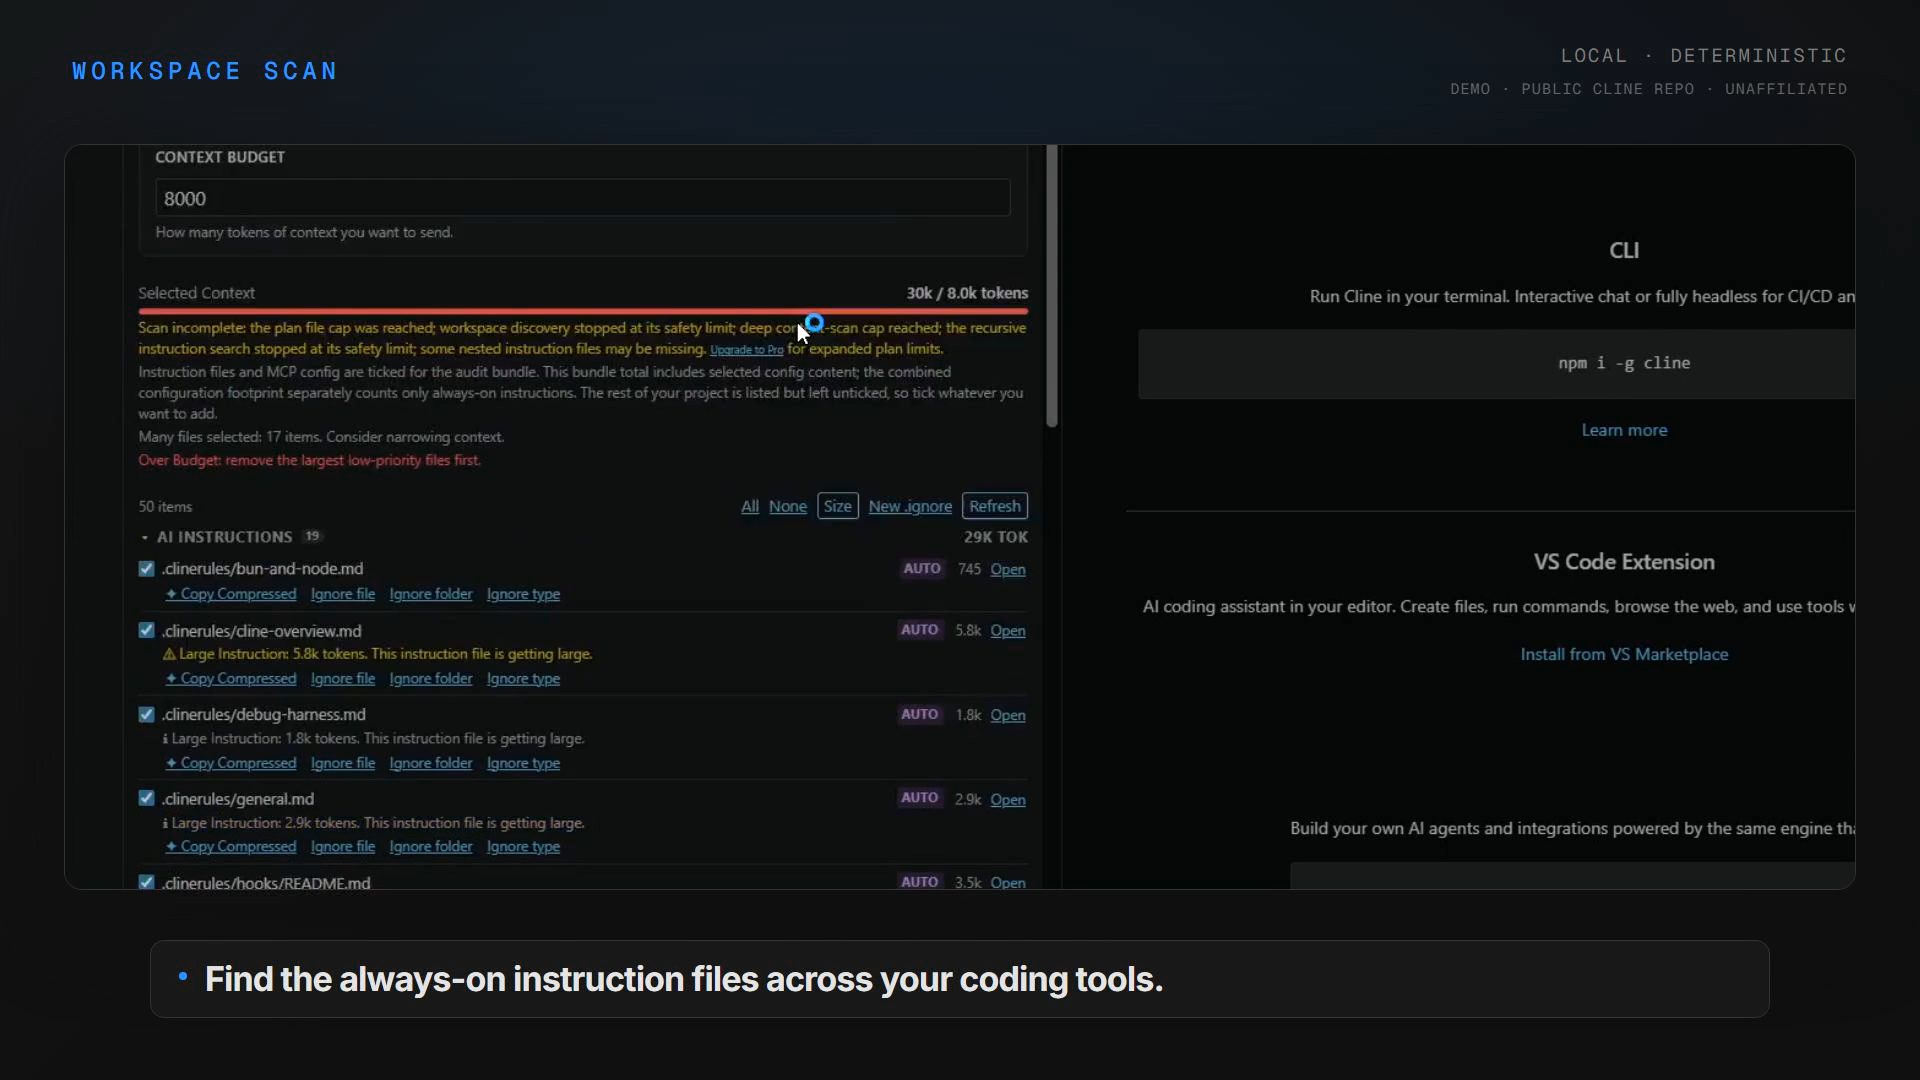
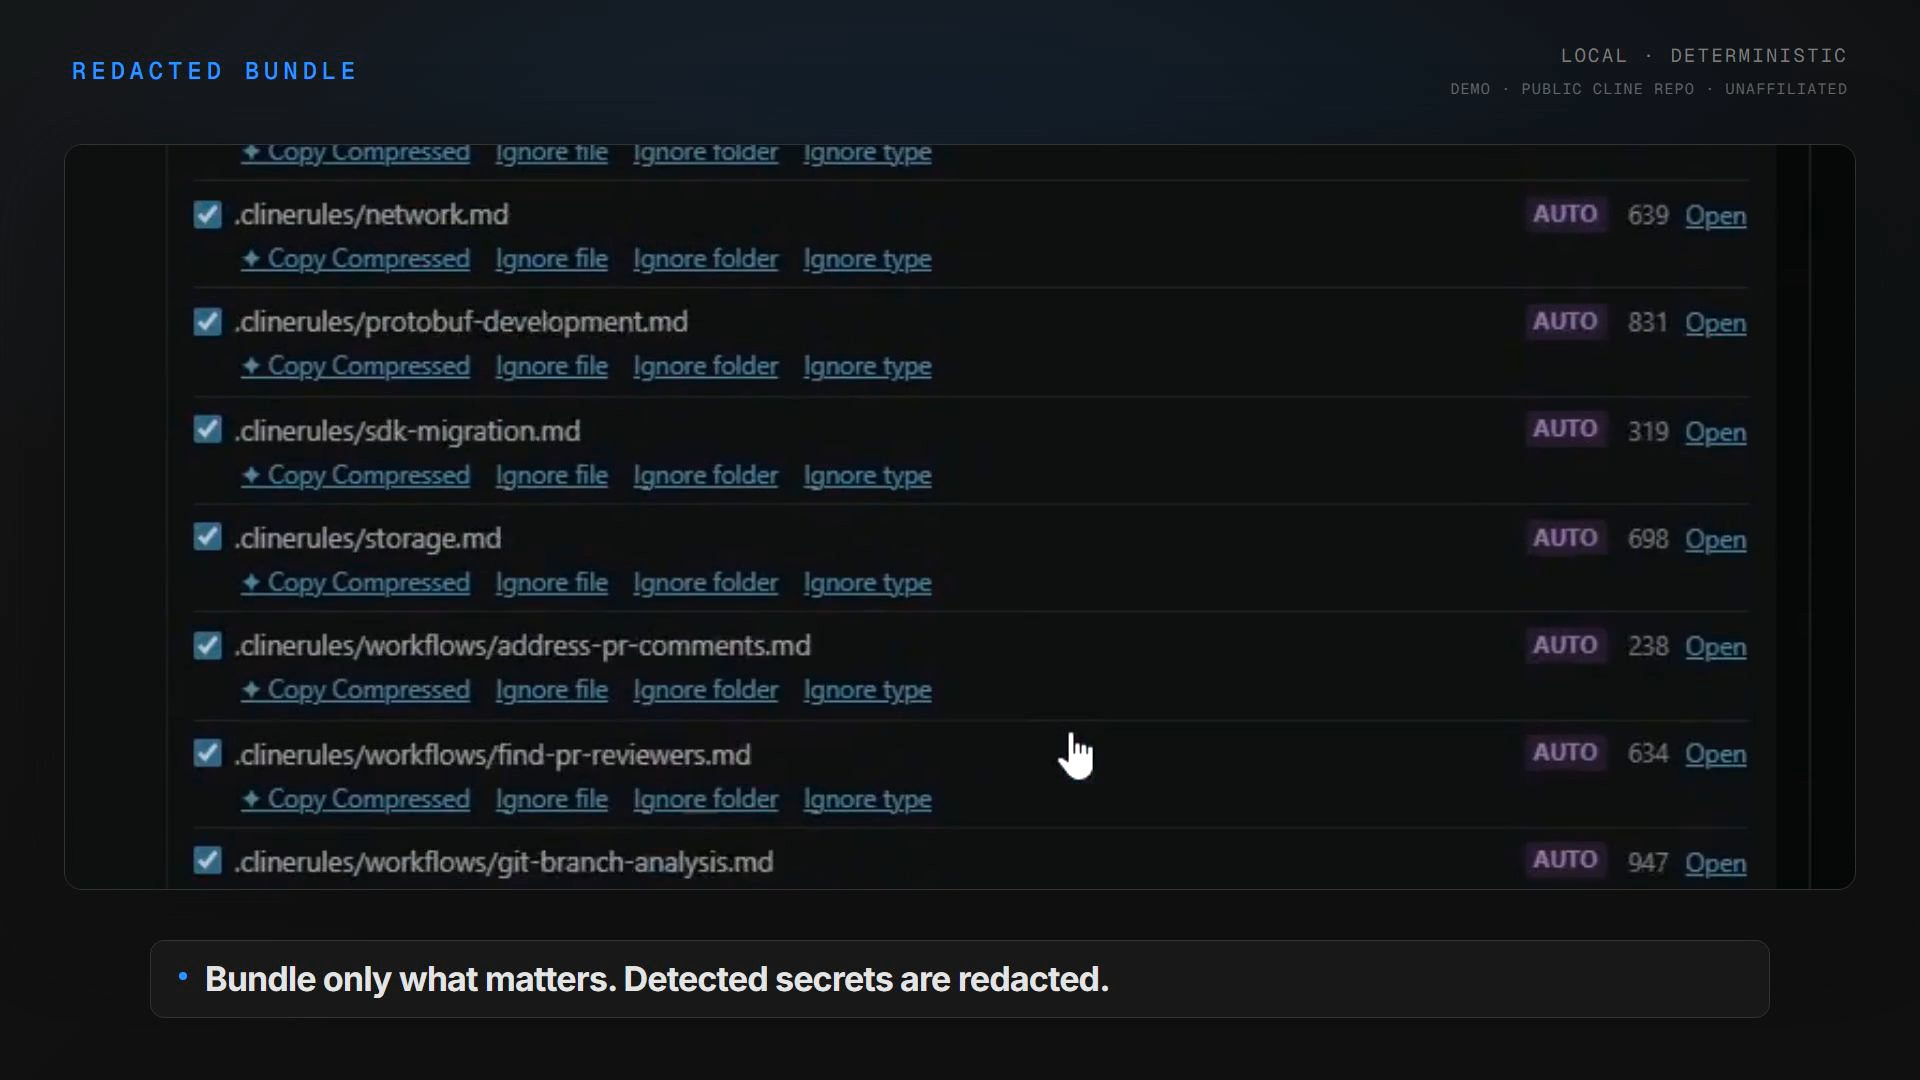
Use a more legible demo poster frame

diff --git a/docs/index.html b/docs/index.html
@@ -288,8 +288,9 @@
     <h2>Sixteen seconds, one real repository.</h2>
     <p class="sub">
       A workspace scan of the public Cline repo: the always-on instruction files found across
-      every tool that loads them, then the combined configuration footprint and its modeled
-      monthly cost, sitting in the status bar where you can't forget about it.
+      every tool that loads them, the combined configuration footprint and its modeled monthly
+      cost sitting in the status bar where you can't forget about it, and a paste-ready bundle
+      with detected secrets redacted.
     </p>
     <div class="demo">
       <video controls preload="none" playsinline poster="contextguard-demo-poster.jpg"
